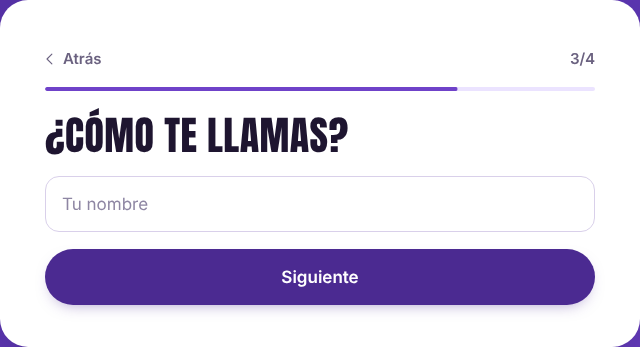
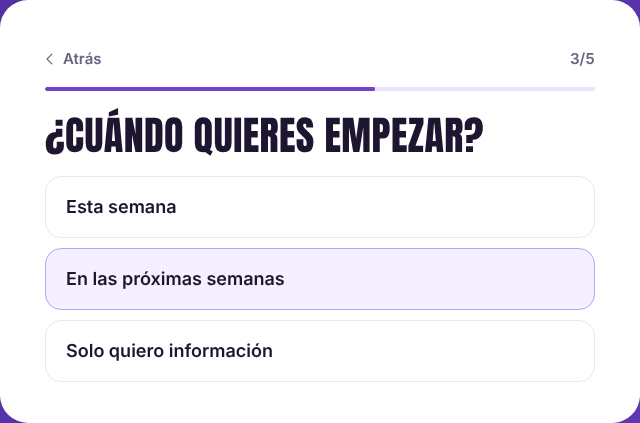
Pregunta "¿Cuándo quieres empezar?" en el formulario y columna nueva en la hoja
- Paso 3 nuevo (Esta semana, En las próximas semanas, Solo quiero
  información) antes del nombre y el teléfono; FormStep empezar
- El formulario envía start_when; el mensaje de WhatsApp y el email lo incluyen
- Apps Script: columna "Cuándo empezar" al final de la hoja, sin mover ni
  borrar nada; la cabecera se pone sola con el primer lead; el dato es opcional
  para no rechazar formularios antiguos; setup no toca hojas que no reconoce
- Contrato del payload, privacidad y pruebas actualizados

Claude-Session: https://claude.ai/code/session_01SZst7iHLrS1DCv7LNHir6L

diff --git a/src/scripts/form.ts b/src/scripts/form.ts
@@ -1,5 +1,5 @@
 /**
- * Formulario de 4 pasos (una pregunta cada vez).
+ * Formulario de 5 pasos (una pregunta cada vez): edad, experiencia, cuándo quiere empezar, nombre y teléfono.
  * Envío a Google Apps Script como text/plain (sin preflight CORS), timeout 12 s y 1 reintento.
  * Si vuelve a fallar por red, la solicitud se guarda en localStorage y se reintenta en la siguiente visita;
  * si el Apps Script la rechaza por un dato no válido (invalid_*), no se reintenta: se marca el campo.
@@ -41,15 +41,17 @@ const STARTED_KEY = 'pyp_form_started';
 const STEPS_KEY = 'pyp_form_steps';
 const LEAD_SENT_KEY = 'pyp_lead_sent';
 const PENDING_KEY = 'pyp_pending_leads';
-const TOTAL = 4;
-const STEP_NAMES = ['', 'edad', 'experiencia', 'nombre', 'telefono'];
+const TOTAL = 5;
+const STEP_NAMES = ['', 'edad', 'experiencia', 'empezar', 'nombre', 'telefono'];
+/** Número de cada paso del formulario. */
+const STEP = { edad: 1, experiencia: 2, empezar: 3, nombre: 4, telefono: 5 } as const;
 /** Tiempo mínimo entre el Lead y cualquier navegación, para que el evento salga. */
 const MIN_LEAD_TO_NAV_MS = 800;
 /** En móvil, WhatsApp se abre solo pasado este tiempo desde el envío. */
 const AUTO_WHATSAPP_MS = 1500;
 
 type Payload = AppsScriptFields;
-type Field = 'age_range' | 'experience' | 'name' | 'phone';
+type Field = 'age_range' | 'experience' | 'start_when' | 'name' | 'phone';
 
 /** El Apps Script ha rechazado un dato: no tiene sentido reintentarlo. */
 class ServerValidationError extends Error {
@@ -274,6 +276,7 @@ export function initForm() {
                 step: current,
                 age_range: (form.elements.namedItem('age_range') as RadioNodeList).value,
                 experience: (form.elements.namedItem('experience') as RadioNodeList).value,
+                start_when: (form.elements.namedItem('start_when') as RadioNodeList).value,
                 name: nameInput.value,
                 prefix: prefixSelect.value,
                 prefix_other: prefixOther.value,
@@ -408,7 +411,7 @@ export function initForm() {
     save();
   };
 
-  /* Pasos 1 y 2: opciones que avanzan solas al tocar */
+  /* Pasos 1, 2 y 3: opciones que avanzan solas al tocar */
   form.addEventListener('keydown', (e) => {
     lastKey = e.key;
     const t = e.target as HTMLInputElement;
@@ -447,7 +450,7 @@ export function initForm() {
   form.querySelector('[data-step="1"]')?.addEventListener('pointerdown', markStarted, { once: true });
   form.querySelector('[data-step="1"]')?.addEventListener('focusin', markStarted, { once: true });
 
-  /* Paso 3: nombre (mismo criterio que el Apps Script) */
+  /* Paso 4: nombre (mismo criterio que el Apps Script) */
   const nameMessage = (problem: ReturnType<typeof nameProblem>) =>
     problem === 'charset' ? 'Escribe tu nombre sin caracteres especiales.' : 'Escribe tu nombre (mínimo 2 letras).';
 
@@ -455,13 +458,13 @@ export function initForm() {
     const problem = nameProblem(nameInput.value);
     if (problem) {
       showError(nameError, nameInput, nameMessage(problem));
-      formError(3, 'name');
+      formError(STEP.nombre, 'name');
       nameInput.focus();
       return;
     }
     clearError(nameError, nameInput);
-    completeStep(3);
-    go(4);
+    completeStep(STEP.nombre);
+    go(STEP.telefono);
   };
   form.querySelector('[data-next-name]')?.addEventListener('click', nextFromName);
   nameInput.addEventListener('keydown', (e) => {
@@ -475,7 +478,7 @@ export function initForm() {
     save();
   });
 
-  /* Paso 4: prefijo y teléfono */
+  /* Paso 5: prefijo y teléfono */
   const syncPrefix = () => {
     const other = prefixSelect.value === 'otro';
     if (prefixValue) prefixValue.textContent = other ? 'Otro' : prefixSelect.value;
@@ -514,7 +517,7 @@ export function initForm() {
     if (errorWa) {
       errorWa.href = whatsappLink(
         SITE.whatsappNumber,
-        whatsappErrorMessage({ name: p.name, phone: p.phone, age_range: p.age_range, experience: p.experience }),
+        whatsappErrorMessage({ name: p.name, phone: p.phone, age_range: p.age_range, experience: p.experience, start_when: p.start_when }),
       );
     }
     if (errorBox) {
@@ -526,16 +529,16 @@ export function initForm() {
   /** El Apps Script ha rechazado un dato: se marca ese campo (sin reintentos ni pendientes). */
   const showServerFieldError = (field: Field) => {
     if (field === 'name') {
-      go(3);
+      go(STEP.nombre);
       showError(nameError, nameInput, 'Revisa tu nombre: escríbelo sin caracteres especiales.');
-      formError(3, 'name');
+      formError(STEP.nombre, 'name');
       nameInput.focus();
     } else if (field === 'phone') {
       showError(phoneError, phoneInput, 'Revisa el número: no parece válido.');
-      formError(4, 'phone');
+      formError(STEP.telefono, 'phone');
       phoneInput.focus();
     } else {
-      go(field === 'age_range' ? 1 : 2);
+      go(field === 'age_range' ? STEP.edad : field === 'experience' ? STEP.experiencia : STEP.empezar);
     }
   };
 
@@ -590,7 +593,7 @@ export function initForm() {
   form.addEventListener('submit', async (e) => {
     e.preventDefault();
     if (current !== TOTAL) {
-      if (current === 3) nextFromName();
+      if (current === STEP.nombre) nextFromName();
       return;
     }
     if (sending || submitted) return;
@@ -598,20 +601,20 @@ export function initForm() {
     const prefix = currentPrefix();
     if (!prefix) {
       showError(phoneError, prefixOther, 'Escribe un prefijo válido, por ejemplo +33.');
-      formError(4, 'prefix');
+      formError(STEP.telefono, 'prefix');
       prefixOther.focus();
       return;
     }
     const phone = normalizePhone(prefix, phoneInput.value);
     if (!phone) {
       showError(phoneError, phoneInput, 'Escribe un número válido.');
-      formError(4, 'phone');
+      formError(STEP.telefono, 'phone');
       phoneInput.focus();
       return;
     }
     clearError(phoneError, phoneInput, prefixOther);
 
-    completeStep(4);
+    completeStep(STEP.telefono);
     if (errorBox) errorBox.hidden = true;
 
     const fd = new FormData(form);
@@ -622,6 +625,7 @@ export function initForm() {
     const payload = buildAppsScriptPayload({
       age_range: String(fd.get('age_range') ?? ''),
       experience: String(fd.get('experience') ?? ''),
+      start_when: String(fd.get('start_when') ?? ''),
       name,
       phone,
       utm_source: utm.utm_source,
@@ -654,7 +658,7 @@ export function initForm() {
     setSending(false);
     const url = whatsappLink(
       SITE.whatsappNumber,
-      whatsappMessage({ name, age_range: payload.age_range, experience: payload.experience, fromFaq }),
+      whatsappMessage({ name, age_range: payload.age_range, experience: payload.experience, start_when: payload.start_when, fromFaq }),
     );
     done = { name, url };
     save();
@@ -676,6 +680,7 @@ export function initForm() {
       };
       setRadio('age_range', saved.age_range);
       setRadio('experience', saved.experience);
+      setRadio('start_when', saved.start_when);
       nameInput.value = saved.name || '';
       if (saved.prefix) prefixSelect.value = saved.prefix;
       prefixOther.value = saved.prefix_other || '';
@@ -685,9 +690,10 @@ export function initForm() {
       fromFaq = saved.from_faq === true;
       syncPrefix();
       let step = Number(saved.step) || 1;
-      if (step > 1 && !saved.age_range) step = 1;
-      else if (step > 2 && !saved.experience) step = 2;
-      else if (step > 3 && !validName(saved.name || '')) step = 3;
+      if (step > STEP.edad && !saved.age_range) step = STEP.edad;
+      else if (step > STEP.experiencia && !saved.experience) step = STEP.experiencia;
+      else if (step > STEP.empezar && !saved.start_when) step = STEP.empezar;
+      else if (step > STEP.nombre && !validName(saved.name || '')) step = STEP.nombre;
       go(step, { focus: false });
     } else {
       // Preselección según el anuncio (tabla en src/data/ad-variants.ts; vacía de momento): marca sin avanzar

diff --git a/src/lib/lead.ts b/src/lib/lead.ts
@@ -8,6 +8,8 @@
 
 export const AGE_OPTIONS = ['Menos de 30', 'De 30 a 39', 'De 40 a 49', 'De 50 a 59', '60 o más'] as const;
 export const EXPERIENCE_OPTIONS = ['Nunca he entrenado', 'Menos de 1 año', 'Entre 1 y 2 años', 'Entre 2 y 3 años', 'Más de 3 años'] as const;
+/** Pregunta de compromiso (paso 3): sirve para saber qué leads están listos para empezar. */
+export const START_OPTIONS = ['Esta semana', 'En las próximas semanas', 'Solo quiero información'] as const;
 
 const UUID_RE = /^[0-9a-f]{8}-[0-9a-f]{4}-[1-8][0-9a-f]{3}-[89ab][0-9a-f]{3}-[0-9a-f]{12}$/i;
 
@@ -130,21 +132,24 @@ export interface WhatsAppLead {
   name: string;
   age_range: string;
   experience: string;
+  start_when?: string;
   /** Llegó al formulario desde "¿Otra duda?" de las preguntas frecuentes. */
   fromFaq?: boolean;
 }
 
+const startLine = (start?: string) => (start ? `Cuándo quiero empezar: ${start}. ` : '');
+
 export function whatsappMessage(l: WhatsAppLead): string {
   const text =
     `Hola, soy ${cleanName(l.name)}. Acabo de rellenar el formulario de Pomposo y Peligroso. ` +
-    `Edad: ${l.age_range}. Experiencia: ${l.experience}. Quiero información sobre el programa.`;
+    `Edad: ${l.age_range}. Experiencia: ${l.experience}. ${startLine(l.start_when)}Quiero información sobre el programa.`;
   return l.fromFaq ? `${text} Tengo una duda: ` : text;
 }
 
 export function whatsappErrorMessage(l: WhatsAppLead & { phone: string }): string {
   return (
     `Hola, soy ${cleanName(l.name)}. He intentado rellenar el formulario de Pomposo y Peligroso y no se ha enviado. ` +
-    `Mi teléfono: ${l.phone}. Edad: ${l.age_range}. Experiencia: ${l.experience}. Quiero información sobre el programa.`
+    `Mi teléfono: ${l.phone}. Edad: ${l.age_range}. Experiencia: ${l.experience}. ${startLine(l.start_when)}Quiero información sobre el programa.`
   );
 }
 
@@ -157,6 +162,7 @@ export function whatsappLink(number: string, text: string): string {
 export interface AppsScriptFields {
   age_range: string;
   experience: string;
+  start_when: string;
   name: string;
   phone: string;
   utm_source: string;
@@ -169,14 +175,15 @@ export interface AppsScriptFields {
 }
 
 /**
- * Lo que recibe el Apps Script: mismas claves, en el mismo orden y con los mismos valores que antes de
- * los cambios de octubre de 2026 (contrato fijado en tests/fixtures/apps-script-payload.json).
- * No añadas ni quites campos: el Apps Script y la hoja no se tocan.
+ * Lo que recibe el Apps Script, con las claves en este orden (contrato fijado en tests/fixtures/apps-script-payload.json).
+ * El 11/11/2026 se añadió start_when (paso 3, columna "Cuándo empezar" al final de la hoja). Cualquier otro cambio
+ * de campos necesita su cambio en apps-script/Code.gs y en la referencia.
  */
 export function buildAppsScriptPayload(f: AppsScriptFields): AppsScriptFields {
   return {
     age_range: f.age_range,
     experience: f.experience,
+    start_when: f.start_when,
     name: f.name,
     phone: f.phone,
     utm_source: f.utm_source,
@@ -190,9 +197,10 @@ export function buildAppsScriptPayload(f: AppsScriptFields): AppsScriptFields {
 }
 
 /** Errores de validación que devuelve el Apps Script (no se reintentan) y el campo al que corresponden. */
-export const SERVER_FIELD_ERRORS: Record<string, 'age_range' | 'experience' | 'name' | 'phone'> = {
+export const SERVER_FIELD_ERRORS: Record<string, 'age_range' | 'experience' | 'start_when' | 'name' | 'phone'> = {
   invalid_age_range: 'age_range',
   invalid_experience: 'experience',
+  invalid_start_when: 'start_when',
   invalid_name: 'name',
   invalid_phone: 'phone',
 };

diff --git a/README.md b/README.md
@@ -1,6 +1,6 @@
 # Pomposo y Peligroso · Landing para Meta Ads
 
-Landing de captación para el programa online de 12 semanas de **Pomposo y Peligroso** (The Monkeys Centro de Entrenamiento S.L.). Objetivo único: que la usuaria rellene un formulario de 4 pasos para que el equipo la contacte por WhatsApp. La conversión (evento `Lead`) es el envío del formulario: se cuenta en el píxel (con consentimiento) y en la API de conversiones de Meta (siempre), con el mismo `event_id`. Antes de enviar no hay ningún enlace que saque de la web; después, la tarjeta del formulario muestra el estado de gracias y en móvil se abre WhatsApp sola.
+Landing de captación para el programa online de 12 semanas de **Pomposo y Peligroso** (The Monkeys Centro de Entrenamiento S.L.). Objetivo único: que la usuaria rellene un formulario de 5 pasos (edad, experiencia, cuándo quiere empezar, nombre y teléfono) para que el equipo la contacte por WhatsApp. La conversión (evento `Lead`) es el envío del formulario: se cuenta en el píxel (con consentimiento) y en la API de conversiones de Meta (siempre), con el mismo `event_id`. Antes de enviar no hay ningún enlace que saque de la web; después, la tarjeta del formulario muestra el estado de gracias y en móvil se abre WhatsApp sola.
 
 - **Stack:** Astro 7 (salida 100 % estática), CSS propio con variables, JavaScript vanilla (7,4 KB comprimido), fuentes autoalojadas y precargadas (Anton para titulares, Allura para la línea manuscrita, Inter para el texto), fotos en WebP con varios tamaños por foto generadas por `astro:assets`.
 - **Despliegue:** Vercel (`vercel.json` incluido). Las páginas son estáticas (`dist/`) y la API de conversiones es una función de Vercel en `api/lead-capi.js`.
@@ -80,7 +80,7 @@ Pega el ID (solo números) en `SITE.metaPixelId`. El píxel **solo se carga si h
 | `PageView` | Estándar | Al cargar, tras el consentimiento (o en el momento de aceptar) | |
 | `ViewContent` | Estándar | La primera vez que el formulario entra en pantalla | `content_name: 'Formulario'` |
 | `FormStart` | Personalizado | Primera interacción con el paso 1 (una vez por sesión) | |
-| `FormStep` | Personalizado | Al completar cada paso, **una vez por paso y sesión** (ir atrás y adelante no lo repite) | `step` (1 a 4), `step_name` (`edad`, `experiencia`, `nombre`, `telefono`) |
+| `FormStep` | Personalizado | Al completar cada paso, **una vez por paso y sesión** (ir atrás y adelante no lo repite) | `step` (1 a 5), `step_name` (`edad`, `experiencia`, `empezar`, `nombre`, `telefono`) |
 | `FormError` | Personalizado | Error de validación, una vez por campo y paso | `step`, `field` (`name`, `phone`, `prefix`) |
 | `Lead` | Estándar | **Solo cuando el Apps Script responde `ok: true`**, una sola vez por solicitud (también si se reintenta) | `content_name: 'Formulario Pomposo'`, `age_range`, `experience` + `eventID`. Antes, coincidencia avanzada con `fbq('init', id, { ph, fn, country })` |
 | `Contact` | Estándar | WhatsApp tras enviar, o botones de `/gracias` y del aviso de error | `content_category`: `gracias-auto` (se abre solo en móvil), `gracias-boton`, `gracias` (página de respaldo) o `form-error` |
@@ -132,23 +132,24 @@ Tras cambiar una variable hay que volver a desplegar (Deployments → Redeploy) 
 
 El código completo está en `apps-script/Code.gs` (sin comentarios, listo para pegar; esta sección lo explica).
 
-**Los cambios de octubre de 2026 (API de conversiones, WhatsApp tras enviar, hero por anuncio, cero fugas) no tocaron el Apps Script ni la hoja:** el formulario le envía exactamente los mismos campos que antes, con los mismos nombres y valores (lo comprueba `tests/unit/payload.test.mjs` y `tests/e2e/payload.spec.mjs`). `event_id` ya viajaba antes; el Apps Script lo ignora y no se guarda en la hoja.
+**Los cambios de octubre de 2026 (API de conversiones, WhatsApp tras enviar, hero por anuncio, cero fugas) no tocaron el Apps Script ni la hoja.** El 11/11/2026 se añadió el paso "¿Cuándo quieres empezar?": el formulario envía además `start_when` y el Apps Script lo guarda en una columna nueva al final ("Cuándo empezar"), sin mover ni borrar nada. El contrato del envío está en `tests/fixtures/apps-script-payload.json` (lo comprueban `tests/unit/payload.test.mjs` y `tests/e2e/payload.spec.mjs`). `event_id` viaja también, pero el Apps Script lo ignora y no se guarda en la hoja.
 
 ### Instalación
 
 1. Crea un Google Sheet nuevo (con la cuenta que vaya a recibir los leads). Ve a **Extensiones → Apps Script**.
 2. Borra el contenido de `Código.gs`, pega todo `apps-script/Code.gs` y guarda.
-3. En el desplegable de funciones elige **`setup`** y pulsa **Ejecutar**. Autoriza los permisos (Google avisará de que la app no está verificada: **Configuración avanzada → Ir a ... (no seguro)**, es tu propio script). Se crean las hojas **Leads** y **Contador**. Si ya tenías la versión de 10 columnas, `setup` le añade la columna Estado sin tocar los leads; si tenías la primera versión de 35 columnas, borra el contenido de esa hoja (era solo de pruebas) y quita la hoja **Resumen**.
+3. En el desplegable de funciones elige **`setup`** y pulsa **Ejecutar**. Autoriza los permisos (Google avisará de que la app no está verificada: **Configuración avanzada → Ir a ... (no seguro)**, es tu propio script). Se crean las hojas **Leads** y **Contador**. Si ya tenías la versión de 11 columnas, `setup` solo añade la cabecera "Cuándo empezar" al final; si tenías la de 10 columnas, añade la columna Estado sin tocar los leads; si tenías la primera versión de 35 columnas, borra el contenido de esa hoja (era solo de pruebas) y quita la hoja **Resumen**. Con cualquier otra disposición de columnas, `setup` se para con un error y no toca nada.
 4. **Implementar → Nueva implementación**. Tipo: **Aplicación web**. Ejecutar como: **Yo**. Quién tiene acceso: **Cualquier usuario**. Pulsa **Implementar** y copia la URL que termina en `/exec`.
 5. Pega esa URL en `SITE.formEndpoint` (`src/config/site.ts`), haz commit y despliega.
 6. Prueba: abre la URL `/exec` en el navegador; debe responder `{"ok":true,"status":"alive"}`. Después envía el formulario desde la web y comprueba que aparece la fila en **Leads**.
 7. Si cambias el código más adelante: **Implementar → Gestionar implementaciones → editar (lápiz) → Versión: Nueva versión → Implementar**. Así la URL no cambia.
 
-Cada lead nuevo manda un aviso por email a la dirección de `NOTIFY_EMAIL` (al principio del script, ahora aaswebmarketing@gmail.com) con nombre, teléfono, edad, experiencia, anuncio, campaña y enlace directo a WhatsApp. Para cambiarla, edítala y vuelve a implementar como en el paso 7; vacía, no se envía nada.
+Cada lead nuevo manda un aviso por email a la dirección de `NOTIFY_EMAIL` (al principio del script, ahora aaswebmarketing@gmail.com) con nombre, teléfono, edad, experiencia, cuándo quiere empezar, anuncio, campaña y enlace directo a WhatsApp. Para cambiarla, edítala y vuelve a implementar como en el paso 7; vacía, no se envía nada.
 
 ### Qué hace
 
-- **Leads:** una fila por lead (la más reciente abajo) con 11 columnas: fecha y hora juntas (Europe/Madrid), nombre, teléfono en texto (E.164), edad, experiencia, **Estado** y los cinco `utm` (`utm_source`, `utm_medium`, `utm_campaign`, `utm_content` con el anuncio y `utm_term` con el conjunto). Nada más: ni IDs, ni referrer, ni dispositivo, ni tiempos.
+- **Leads:** una fila por lead (la más reciente abajo) con 12 columnas: fecha y hora juntas (Europe/Madrid), nombre, teléfono en texto (E.164), edad, experiencia, **Estado**, los cinco `utm` (`utm_source`, `utm_medium`, `utm_campaign`, `utm_content` con el anuncio y `utm_term` con el conjunto) y, al final, **Cuándo empezar** (Esta semana, En las próximas semanas o Solo quiero información). Nada más: ni IDs, ni referrer, ni dispositivo, ni tiempos.
+- **Cuándo empezar** se añadió el 11/11/2026 como última columna para no mover nada: la primera vez que llega un lead con el código nuevo, el script pone la cabecera solo; los leads anteriores se quedan como estaban (con esa celda vacía). Ese dato no es obligatorio en el servidor, así que un formulario antiguo abierto en un móvil sigue guardando bien.
 - **Estado:** desplegable con colores (Nuevo, Contactado, No contesta, Videollamada agendada, Videollamada hecha, Alumna, Descartada). Cada lead entra como Nuevo.
 - **Contador:** hoja aparte que se actualiza sola con fórmulas: total de leads, hoy, ayer, últimos 7 días, últimos 30 días y cuántos hay en cada estado. No hay que tocarla.
 - Valida los datos, neutraliza fórmulas inyectadas, usa `LockService`, no duplica el mismo teléfono en 10 minutos y descarta en silencio el campo trampa (honeypot) de los bots.

diff --git a/PENDIENTES.md b/PENDIENTES.md
@@ -4,6 +4,8 @@ Todo lo que falta por confirmar o facilitar. La web funciona igual mientras tant
 
 ## Lo hace Aleks fuera del código
 
+- [ ] **Pegar el Apps Script nuevo** (`apps-script/Code.gs`, pregunta "¿Cuándo quieres empezar?"): Apps Script, borrar todo, pegar y guardar; luego **Implementar → Gestionar implementaciones → lápiz → Versión: Nueva versión → Implementar** (la URL no cambia). No hace falta ejecutar `setup`. Hasta que se haga, los leads se siguen guardando igual, solo que sin esa respuesta.
+
 - [x] Campaña de cierre: se llama CERRAR y ya ve el hero de cierre (`src/data/ad-variants.ts`).
 
 - [ ] **Token de la API de conversiones**: poner `META_CAPI_TOKEN` en Vercel (Settings, Environment Variables, Production) y volver a desplegar. Se genera en el Administrador de eventos de Meta: píxel 1162548892864094, Configuración, API de conversiones, Generar token de acceso. Opcional mientras se prueba: `META_TEST_EVENT_CODE` (y quitarlo después). Sin token la web funciona igual, solo que sin API de conversiones. Nunca en el repo ni en el chat.
